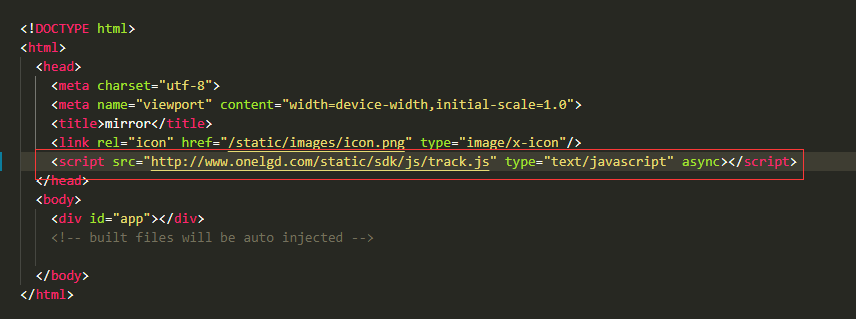
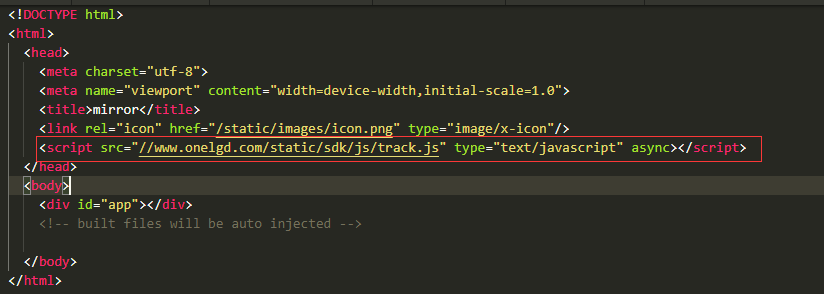
https

Changed region(s): [[0.0, 0.0306, 0.9405, 0.7959], [0.0, 0.8265, 0.1214, 0.9796]]

diff --git a/app/mirror/dist/static/sdk/js/track.js b/app/mirror/dist/static/sdk/js/track.js
@@ -340,7 +340,7 @@
         }
         return fmt;
     }
-    var url = 'http://www.onelgd.com/api/report/send_message/EP_EVENT_BUS';
+    var url = '//www.onelgd.com/api/report/send_message/EP_EVENT_BUS';
     // var url = 'http://localhost:8000/api/report/send_message/EP_EVENT_BUS';
     function postPageView(data) {
         Ajax.post(url, data, function (msg) {

diff --git a/app/mirror/static/sdk/js/track.js b/app/mirror/static/sdk/js/track.js
@@ -340,7 +340,7 @@
         }
         return fmt;
     }
-    var url = 'http://www.onelgd.com/api/report/send_message/EP_EVENT_BUS';
+    var url = '//www.onelgd.com/api/report/send_message/EP_EVENT_BUS';
     // var url = 'http://localhost:8000/api/report/send_message/EP_EVENT_BUS';
     function postPageView(data) {
         Ajax.post(url, data, function (msg) {
